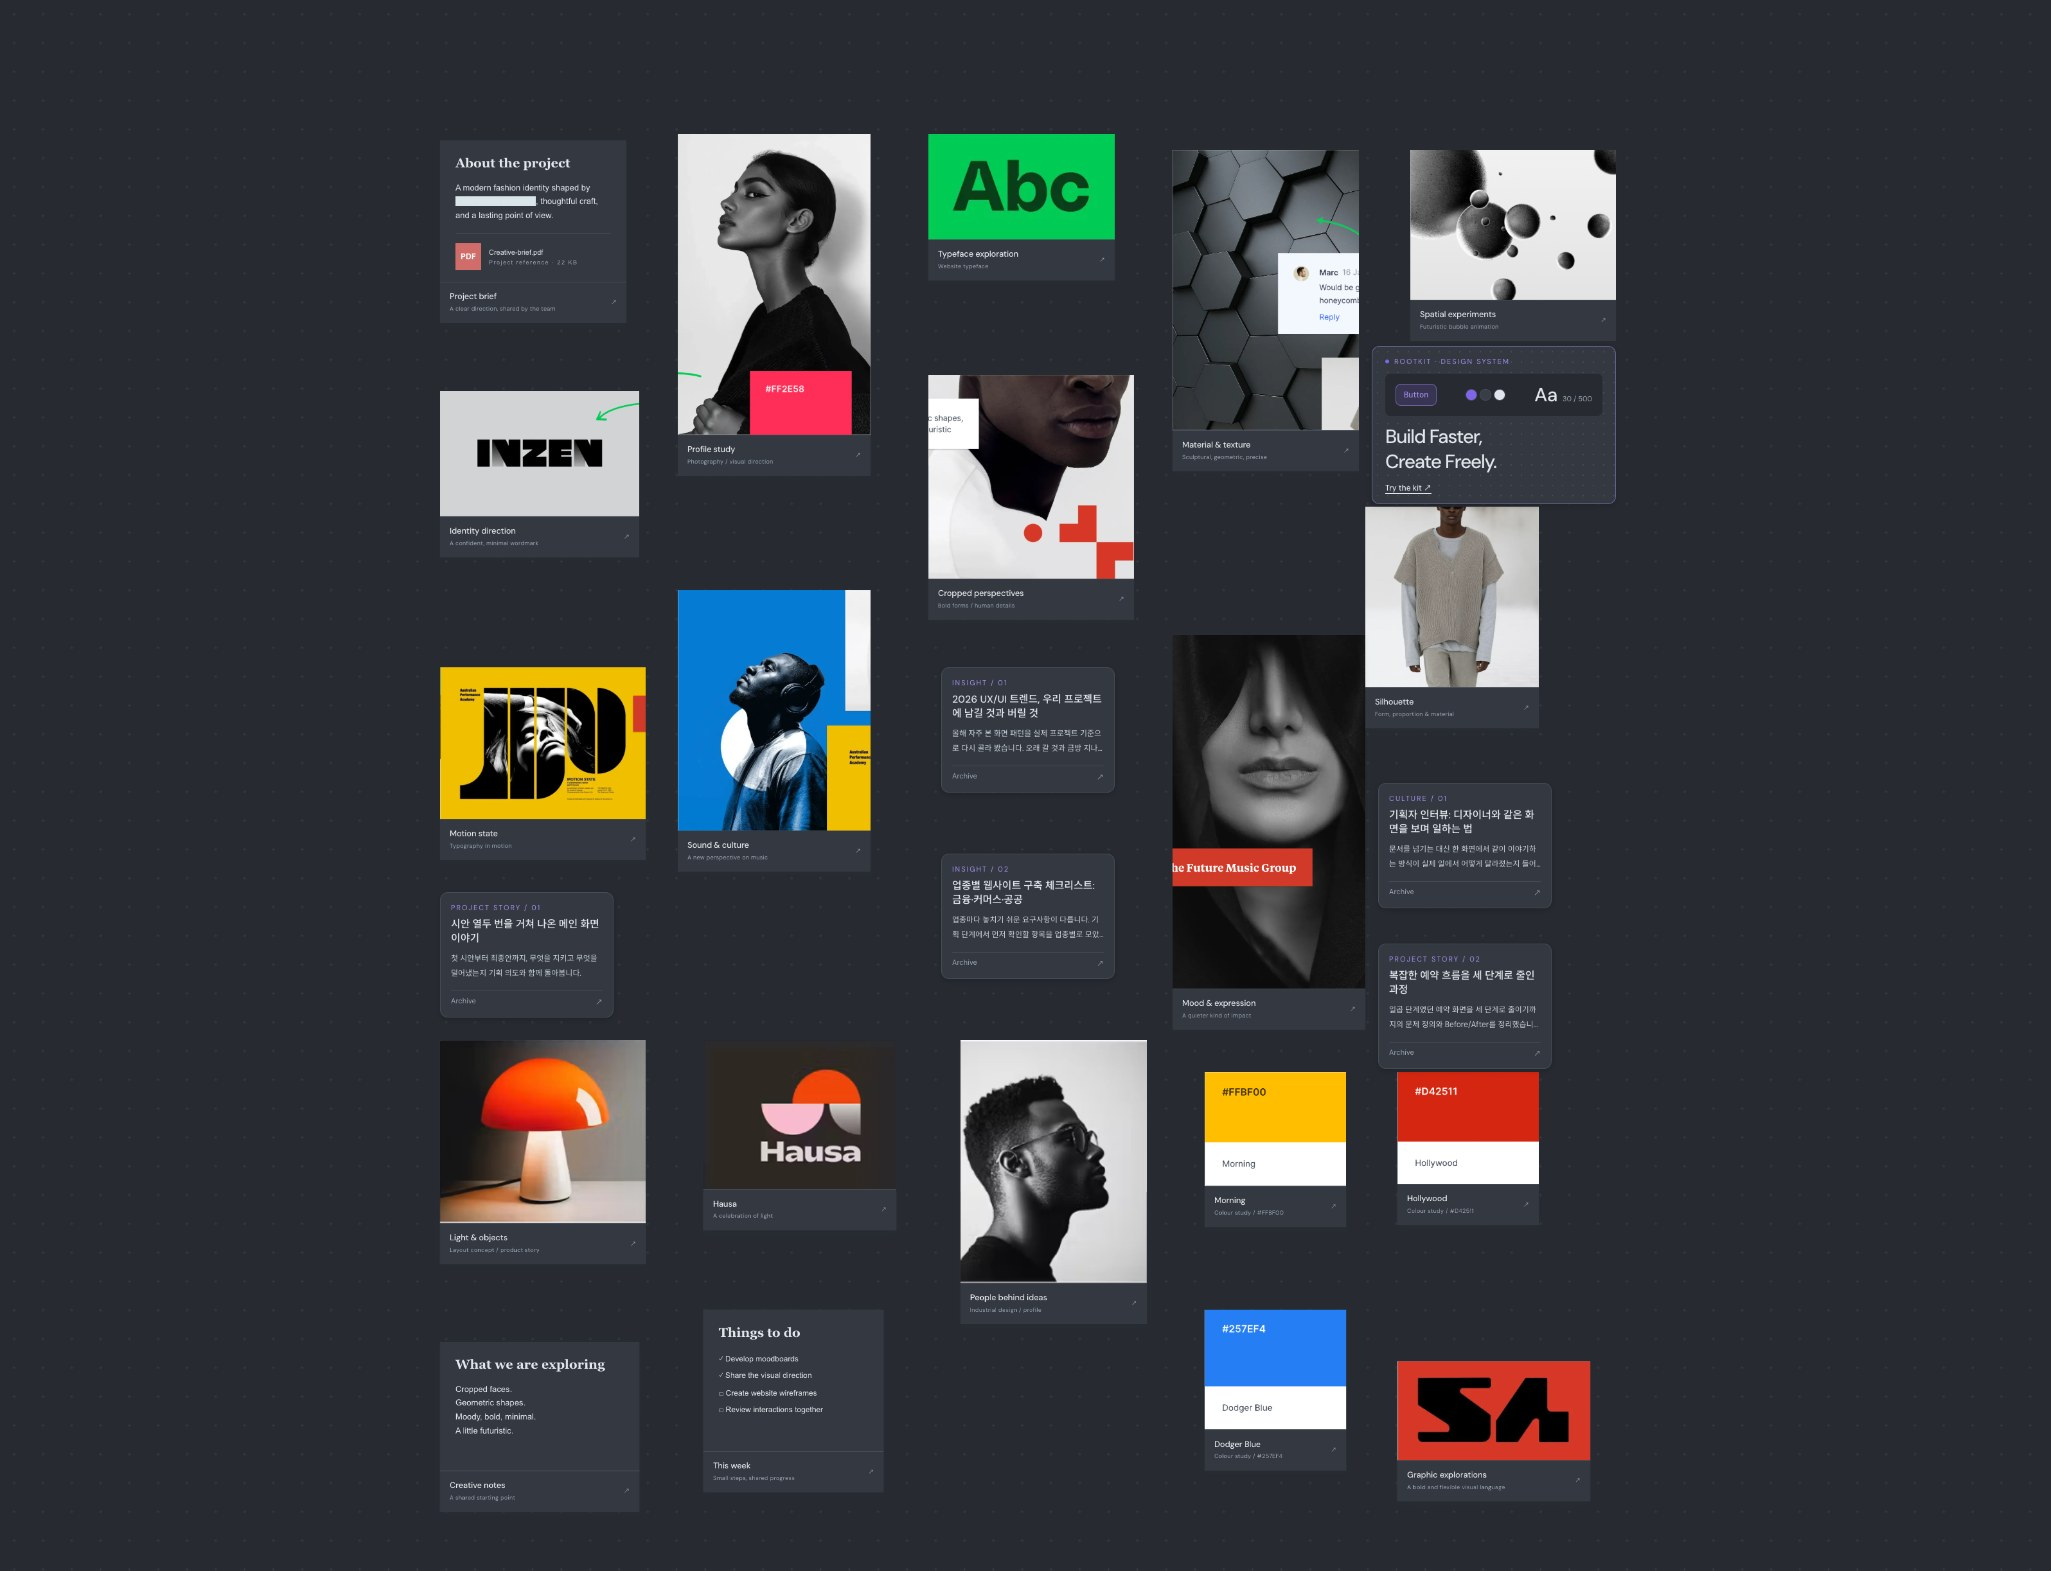
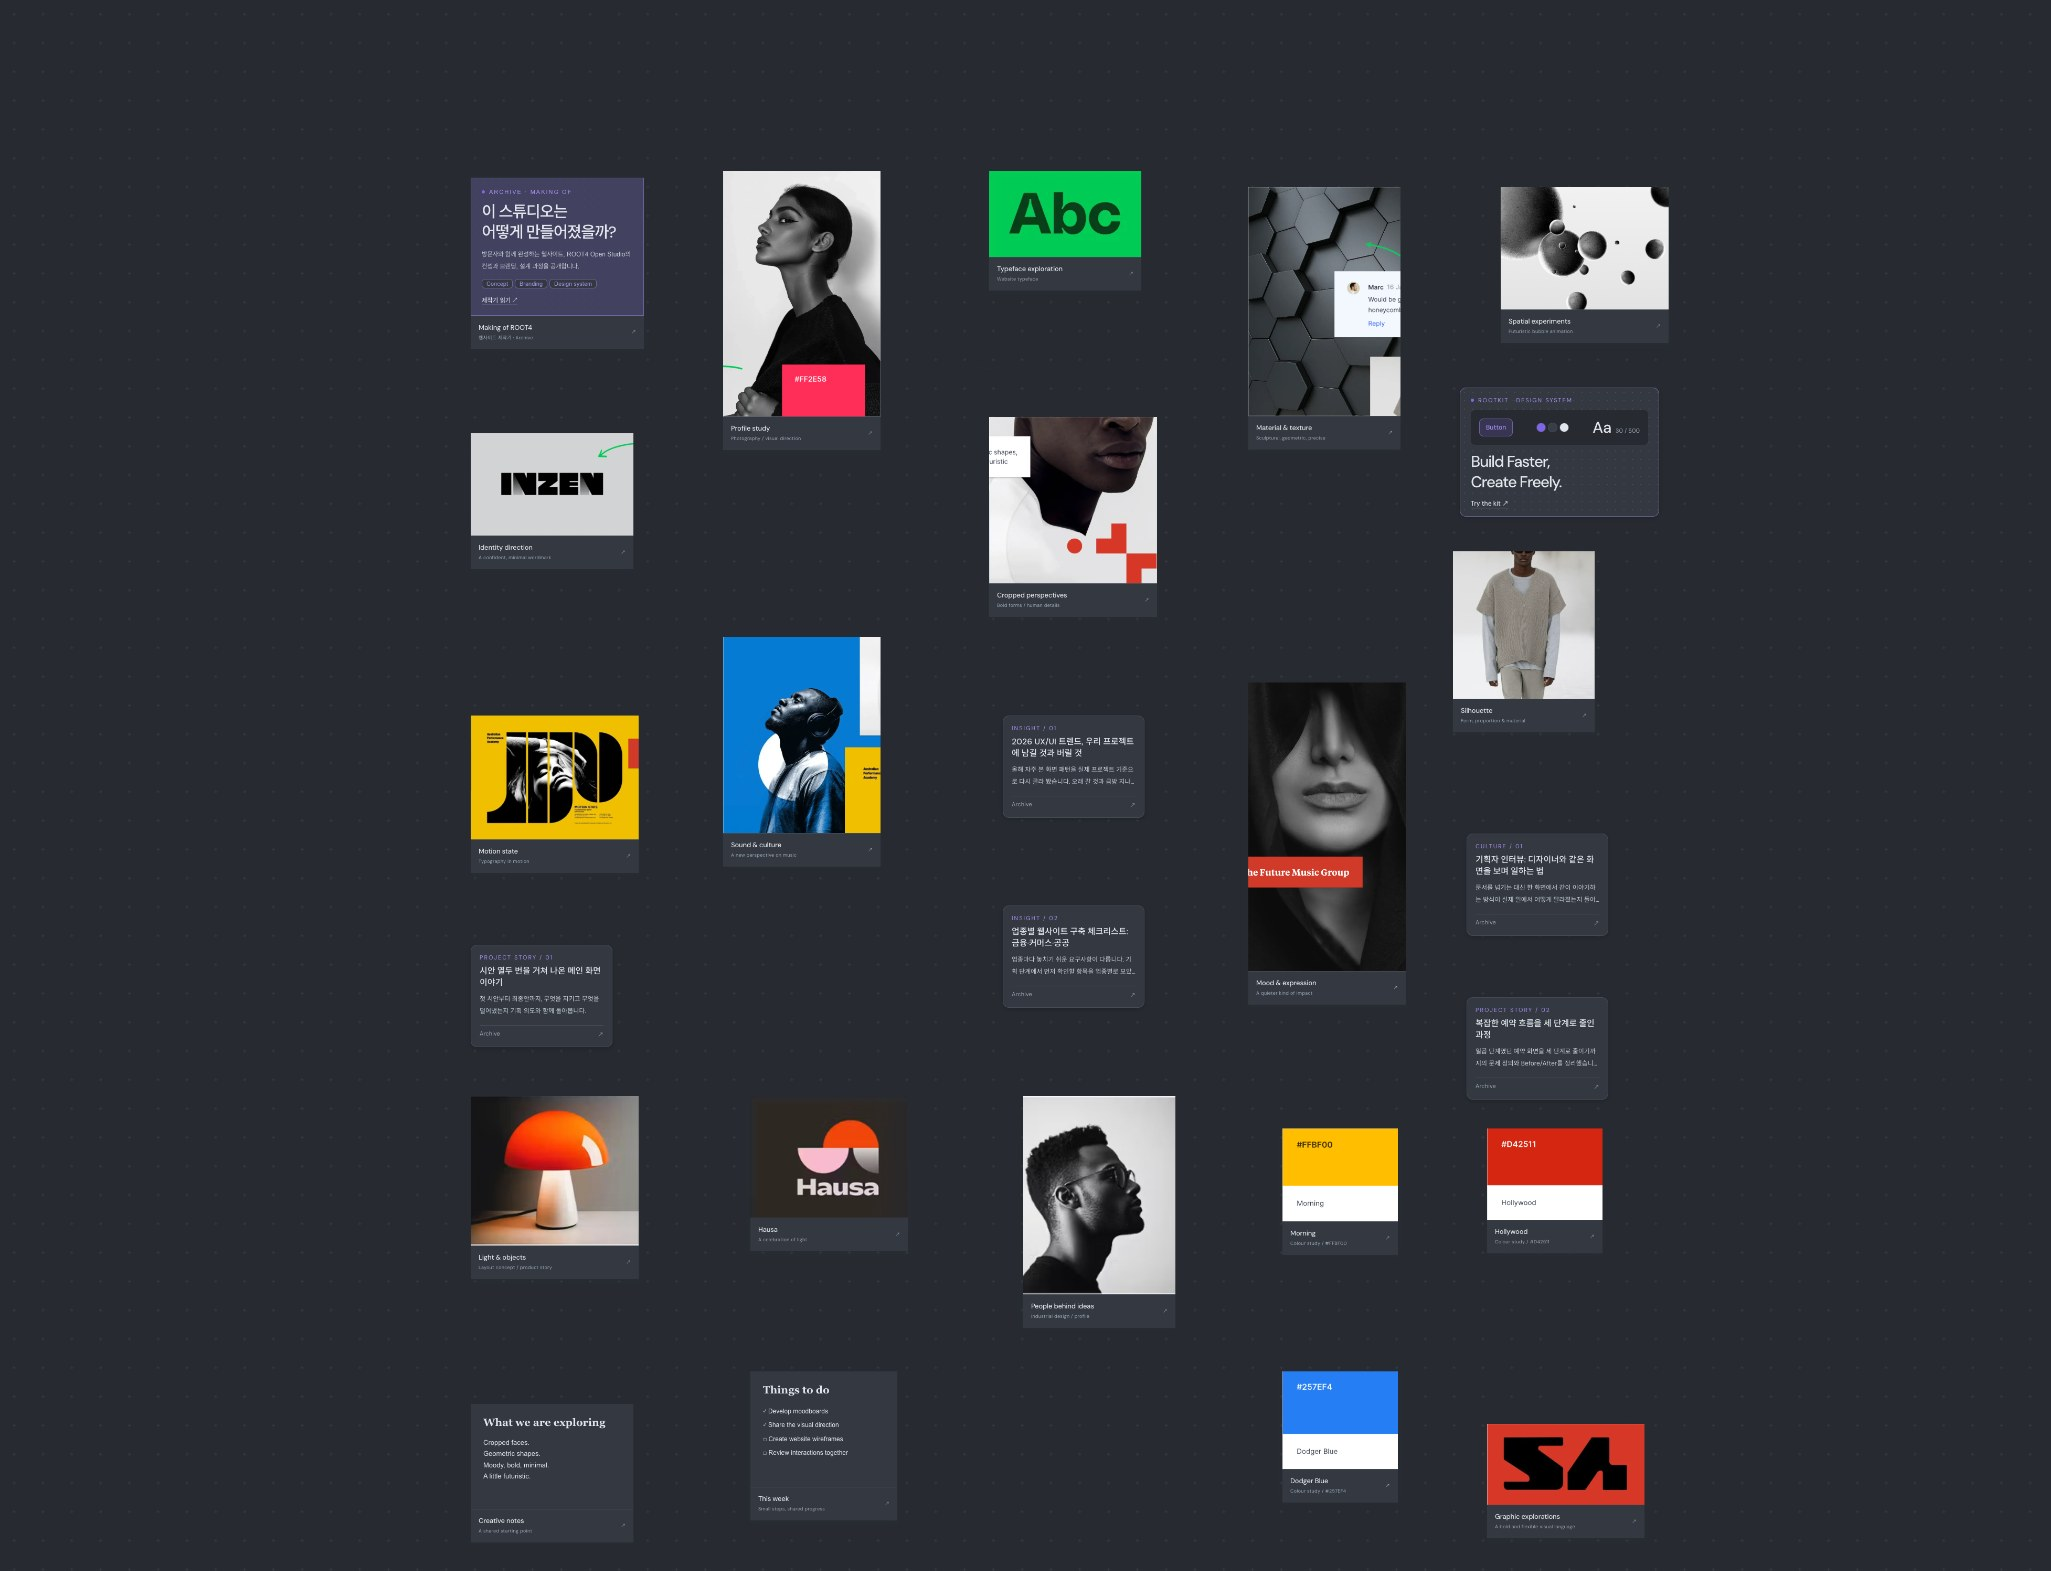
projects: 보드 첫 카드를 제작기 강조 카드로, 카드 간격을 사방으로 넓힘
- 01 카드: ARCHIVE · MAKING OF / "이 스튜디오는 어떻게 만들어졌을까?" 강조 텍스트 카드(테두리 보라·점선 격자), 누르면 제작기 글
- 모든 카드 자리를 가로 1.3배·세로 1.25배로 퍼뜨림(시안 positions 포함), 원위치 버튼은 전체 보드에 맞춤
- 제작기 글의 보드 캡처도 새 배치로 다시 찍음, 브리프 10번 반영

diff --git a/projects/projects.js b/projects/projects.js
@@ -152,8 +152,10 @@
   }
 
   function place(el, spot) {
-    el.style.left = spot[0] + "px";
-    el.style.top = spot[1] + "px";
+    /* 보드 간격을 넓힌 배율(ROOT4_BOARD_SPREAD)을 같이 적용 */
+    var S = window.ROOT4_BOARD_SPREAD || { x: 1, y: 1, ox: 0, oy: 0 };
+    el.style.left = Math.round(S.ox + (spot[0] - S.ox) * S.x) + "px";
+    el.style.top = Math.round(S.oy + (spot[1] - S.oy) * S.y) + "px";
   }
 
   function readPosts() {
@@ -220,4 +222,85 @@
   }
 
   window.addEventListener("load", build);
+})();
+
+/*
+ * 보드 정리 (2026-11-26) — 담당 명지
+ * 1. 첫 카드(About the project)를 '홈페이지 제작기' 강조 카드로: 누르면 Archive 글 project-story-04
+ * 2. 카드 사이 간격 넓히기: 모든 카드 자리를 보드 왼쪽 위 기준으로 가로 1.3배·세로 1.25배 퍼뜨림
+ *    (시안 카메라가 쓰는 positions 배열도 같이 바꿔서, 투어·포커스가 새 자리를 따라갑니다)
+ */
+window.ROOT4_BOARD_SPREAD = { x: 1.3, y: 1.25, ox: 70, oy: 70 };
+(function () {
+  "use strict";
+  var S = window.ROOT4_BOARD_SPREAD;
+
+  function makingOf() {
+    var node = document.querySelectorAll("#world .node")[0];
+    if (!node || node.classList.contains("projects-makingof")) return;
+    node.classList.add("projects-makingof");
+    var art = node.querySelector(".art");
+    if (art) {
+      art.removeAttribute("style");
+      art.innerHTML =
+        '<span class="projects-mo-eyebrow"><i aria-hidden="true"></i>ARCHIVE · MAKING OF</span>' +
+        '<span class="projects-mo-title">이 스튜디오는<br>어떻게 만들어졌을까?</span>' +
+        '<span class="projects-mo-desc">방문자와 함께 완성하는 웹사이트, ROOT4 Open Studio의 컨셉과 브랜딩, 설계 과정을 공개합니다.</span>' +
+        '<span class="projects-mo-tags"><b>Concept</b><b>Branding</b><b>Design system</b></span>' +
+        '<span class="projects-mo-cta">제작기 읽기 <span aria-hidden="true">↗</span></span>';
+    }
+    var cap = node.querySelector(".minimal-caption");
+    if (cap) cap.innerHTML = "<strong>Making of ROOT4</strong><span>웹사이트 제작기 · Archive</span><span class=\"minimal-arrow\">↗</span>";
+    node.setAttribute("aria-label", "Making of ROOT4 — 이 스튜디오는 어떻게 만들어졌을까? 제작기 읽기");
+    /* 시안의 팀 대화·검색이 쓰는 이름 */
+    try { titles[0] = "Making of ROOT4 — 웹사이트 제작기"; desc[0] = "ROOT4 Open Studio의 컨셉과 브랜딩, 설계 과정을 소개하는 제작기입니다."; } catch (e) {}
+    /* 모바일 List 첫 카드 */
+    var m = document.querySelector(".mobile-project-card");
+    if (m) {
+      m.classList.add("projects-makingof-mobile");
+      m.innerHTML = '<div class="mobile-card-thumb mobile-note-thumb">Making of ROOT4</div><div class="mobile-card-copy"><strong>이 스튜디오는 어떻게 만들어졌을까?</strong><small>Archive / Making of</small></div>';
+    }
+  }
+
+  function spreadNodes() {
+    var world = document.getElementById("world");
+    if (!world || world.dataset.spread) return;
+    world.dataset.spread = "1";
+    document.querySelectorAll("#world .node").forEach(function (n, i) {
+      var l = parseFloat(n.style.left) || n.offsetLeft, t = parseFloat(n.style.top) || n.offsetTop;
+      var nl = S.ox + (l - S.ox) * S.x, nt = S.oy + (t - S.oy) * S.y;
+      n.style.left = Math.round(nl) + "px";
+      n.style.top = Math.round(nt) + "px";
+      try { if (positions[i]) positions[i] = [Math.round(nl), Math.round(nt)]; } catch (e) {}
+    });
+    world.style.width = Math.round((parseFloat(world.style.width) || 2000) * S.x) + "px";
+    world.style.height = Math.round((parseFloat(world.style.height) || 2400) * S.y) + "px";
+  }
+
+  /* 퍼뜨린 보드 전체가 캔버스에 들어오게 맞추기 (시안의 '원위치' 버튼도 이 계산으로) */
+  function fitBoard() {
+    try {
+      var canvas = document.getElementById("canvas");
+      var items = [].filter.call(document.querySelectorAll("#world .node, #world .projects-extra"), function (e) { return e.offsetWidth; });
+      if (!canvas || !items.length || canvas.clientWidth < 300) return;
+      var L = Math.min.apply(null, items.map(function (e) { return e.offsetLeft; }));
+      var T = Math.min.apply(null, items.map(function (e) { return e.offsetTop; }));
+      var R = Math.max.apply(null, items.map(function (e) { return e.offsetLeft + e.offsetWidth; }));
+      var B = Math.max.apply(null, items.map(function (e) { return e.offsetTop + e.offsetHeight; }));
+      var w = canvas.clientWidth, h = canvas.clientHeight, top = 150, pad = 40;
+      scale = Math.max(0.12, Math.min((w - pad * 2) / (R - L), (h - top - pad) / (B - T), 0.85));
+      x = (w - (R - L) * scale) / 2 - L * scale;
+      y = top + (h - top - pad - (B - T) * scale) / 2 - T * scale;
+      transform();
+    } catch (e) {}
+  }
+
+  window.addEventListener("load", function () {
+    makingOf();
+    spreadNodes();
+    /* 다른 메뉴 카드(RootKit·Archive)는 projects.js 위쪽에서 같은 배율로 놓입니다 */
+    setTimeout(fitBoard, 300);
+    var reset = document.getElementById("reset");
+    if (reset) reset.addEventListener("click", function () { setTimeout(fitBoard, 0); });
+  });
 })();

diff --git a/projects/projects.css b/projects/projects.css
@@ -232,3 +232,72 @@ body[data-menu="projects"] #projects .suggestions button {
   .projects-kit-sample { animation: none; }
   .projects-extra:hover { transform: none; }
 }
+
+/* ── 5. 첫 카드 = 홈페이지 제작기 강조 카드 (projects.js makingOf) ──
+ * RootKit 썸네일처럼 테두리 --border-accent + 점선 격자. 사진 카드 사이에서 '읽을거리'로 눈에 띄게.
+ */
+body[data-menu="projects"] #world .node.projects-makingof {
+  width: 330px !important;
+  border-radius: var(--radius-card);
+  box-shadow: var(--shadow-card);
+}
+body[data-menu="projects"] #world .node.projects-makingof .art {
+  display: flex !important;
+  flex-direction: column;
+  gap: var(--space-12);
+  height: auto !important;
+  padding: var(--space-20) !important;
+  border: 1px solid var(--border-accent) !important;
+  border-radius: var(--radius-card) var(--radius-card) 0 0;
+  background:
+    radial-gradient(circle, var(--border-default) 1px, transparent 1.5px) 0 0 / 16px 16px,
+    var(--surface-accent-subtle) !important;
+  color: var(--text-primary);
+  text-align: left;
+}
+.projects-mo-eyebrow {
+  display: flex;
+  align-items: center;
+  gap: var(--space-8);
+  color: var(--text-eyebrow);
+  font-size: var(--type-eyebrow-size);
+  letter-spacing: var(--type-eyebrow-tracking);
+}
+.projects-mo-eyebrow i {
+  width: 6px;
+  height: 6px;
+  border-radius: var(--radius-round);
+  background: var(--surface-accent);
+}
+.projects-mo-title {
+  font-family: var(--font-sans);
+  font-size: var(--type-heading-lg-size);
+  font-weight: var(--type-heading-lg-weight);
+  line-height: var(--type-heading-lg-line);
+  letter-spacing: var(--type-heading-lg-tracking);
+}
+.projects-mo-desc {
+  color: var(--text-secondary);
+  font-size: var(--type-body-sm-size);
+  line-height: var(--type-body-sm-line);
+}
+.projects-mo-tags { display: flex; flex-wrap: wrap; gap: var(--space-4); }
+.projects-mo-tags b {
+  padding: 2px var(--space-8);
+  border: 1px solid var(--border-accent);
+  border-radius: var(--radius-chip);
+  background: var(--surface-panel);
+  color: var(--text-accent);
+  font-size: var(--type-label-sm-size);
+  font-weight: 400;
+}
+.projects-mo-cta {
+  margin-top: var(--space-4);
+  font-size: var(--type-label-md-size);
+  font-weight: var(--type-label-md-weight);
+  text-decoration: underline;
+  text-underline-offset: 4px;
+}
+/* 모바일 List 첫 카드 */
+.mobile-project-card.projects-makingof-mobile { border-color: var(--border-accent) !important; }
+.projects-makingof-mobile .mobile-note-thumb { background: var(--surface-accent-subtle) !important; color: var(--text-accent) !important; }

diff --git a/scripts/capture-post-images.js b/scripts/capture-post-images.js
@@ -93,7 +93,7 @@ async function board(name, theme) {
     const items = [...world.querySelectorAll(".node,.projects-extra")].filter(e => e.offsetWidth);
     const L = Math.min(...items.map(e => e.offsetLeft)), T = Math.min(...items.map(e => e.offsetTop));
     const R = Math.max(...items.map(e => e.offsetLeft + e.offsetWidth)), B = Math.max(...items.map(e => e.offsetTop + e.offsetHeight));
-    const cr = canvas.getBoundingClientRect(), pad = 40;
+    const cr = canvas.getBoundingClientRect(), pad = 72;
     scale = Math.min((cr.width - pad * 2) / (R - L), (cr.height - pad * 2) / (B - T));
     x = (cr.width - (R - L) * scale) / 2 - L * scale;
     y = (cr.height - (B - T) * scale) / 2 - T * scale;

diff --git a/screens/projects.md b/screens/projects.md
@@ -74,6 +74,8 @@ A. 작업 공간 — 왼쪽 대화 패널 316 + 오른쪽 보드 캔버스.
 ## 10. 보드 사이사이의 다른 메뉴 카드 (2026-11-26)
 
 - **01 About the project(Project brief) 카드는 프로젝트가 아니라 홈페이지 제작기 글**입니다. 누르면 Archive 글 `project-story-04`로 갑니다(`projects-data.js`의 `archive` 필드). 프로젝트 상세 `?p=01`로 직접 오면 그 글로 보내고, '다음 프로젝트'에서도 건너뜁니다.
+- 01 카드는 **제작기 강조 카드**로 그립니다(`projects.js` makingOf, `projects.css` 5번): 테두리 `--border-accent` + 점선 격자 + 연보라 바탕, `ARCHIVE · MAKING OF` / `이 스튜디오는 어떻게 만들어졌을까?` / 요약 / 태그 Concept·Branding·Design system / `제작기 읽기 ↗`. 아래 이름은 `Making of ROOT4`.
+- **카드 간격:** 모든 카드 자리를 보드 왼쪽 위(70, 70) 기준으로 가로 1.3배·세로 1.25배 퍼뜨립니다(`ROOT4_BOARD_SPREAD`). 시안 카메라가 쓰는 `positions`도 같이 바꾸고, 원위치(⌖) 버튼은 퍼뜨린 보드 전체가 보이게 맞춥니다. RootKit·Archive 카드 자리(`SPOT_*`)도 같은 배율이 적용됩니다.
 
 프로젝트 카드 사이에 다른 메뉴로 들어가는 카드를 섞어 둡니다. 프로젝트 카드(`.node`)가 아니라서 번호(01–20)와 필터 개수에 들어가지 않습니다.
 
